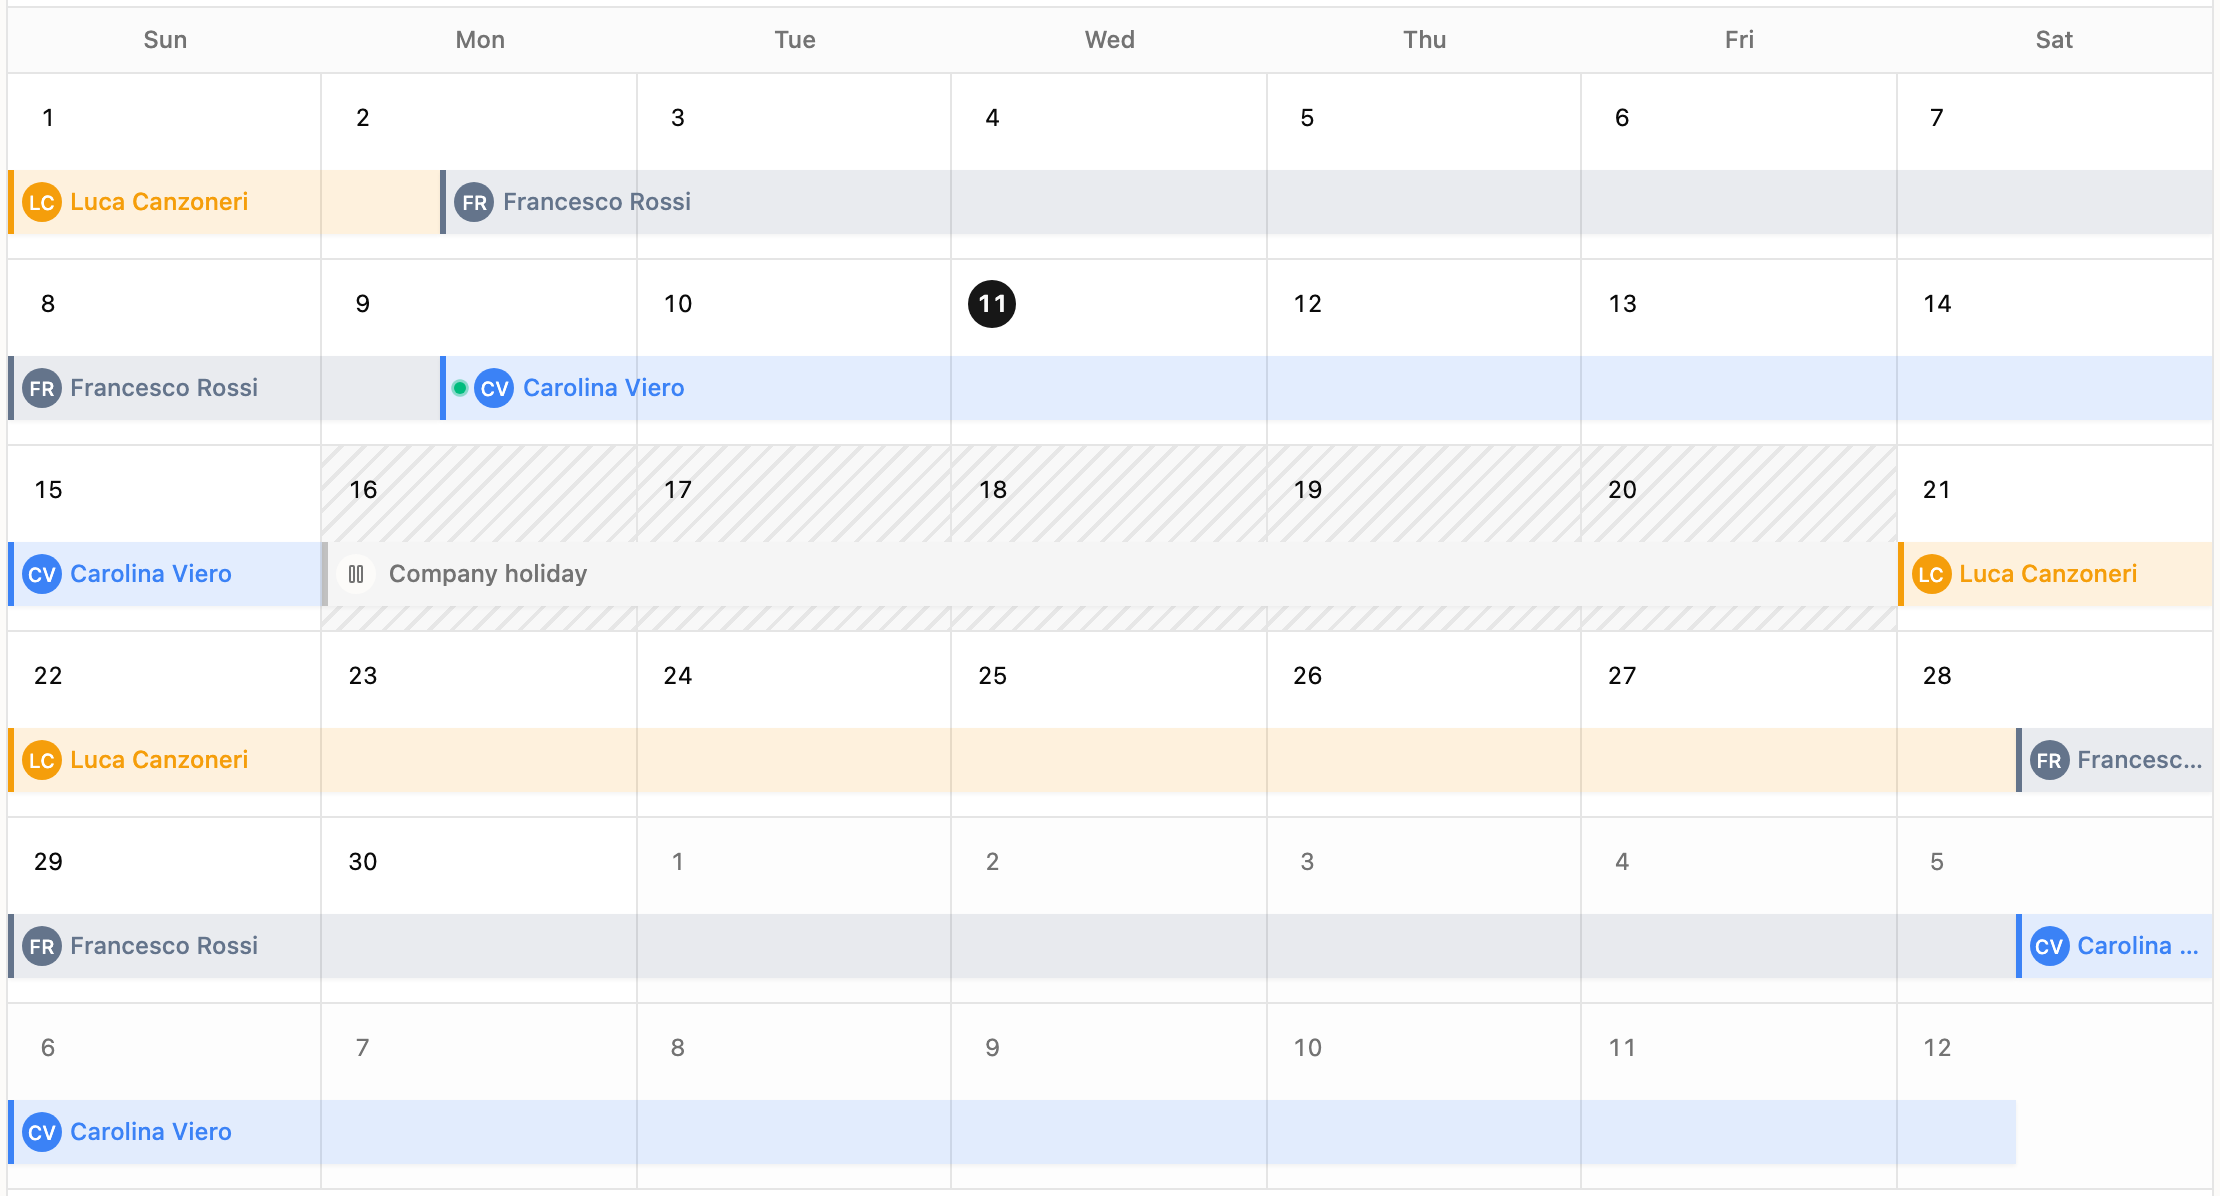
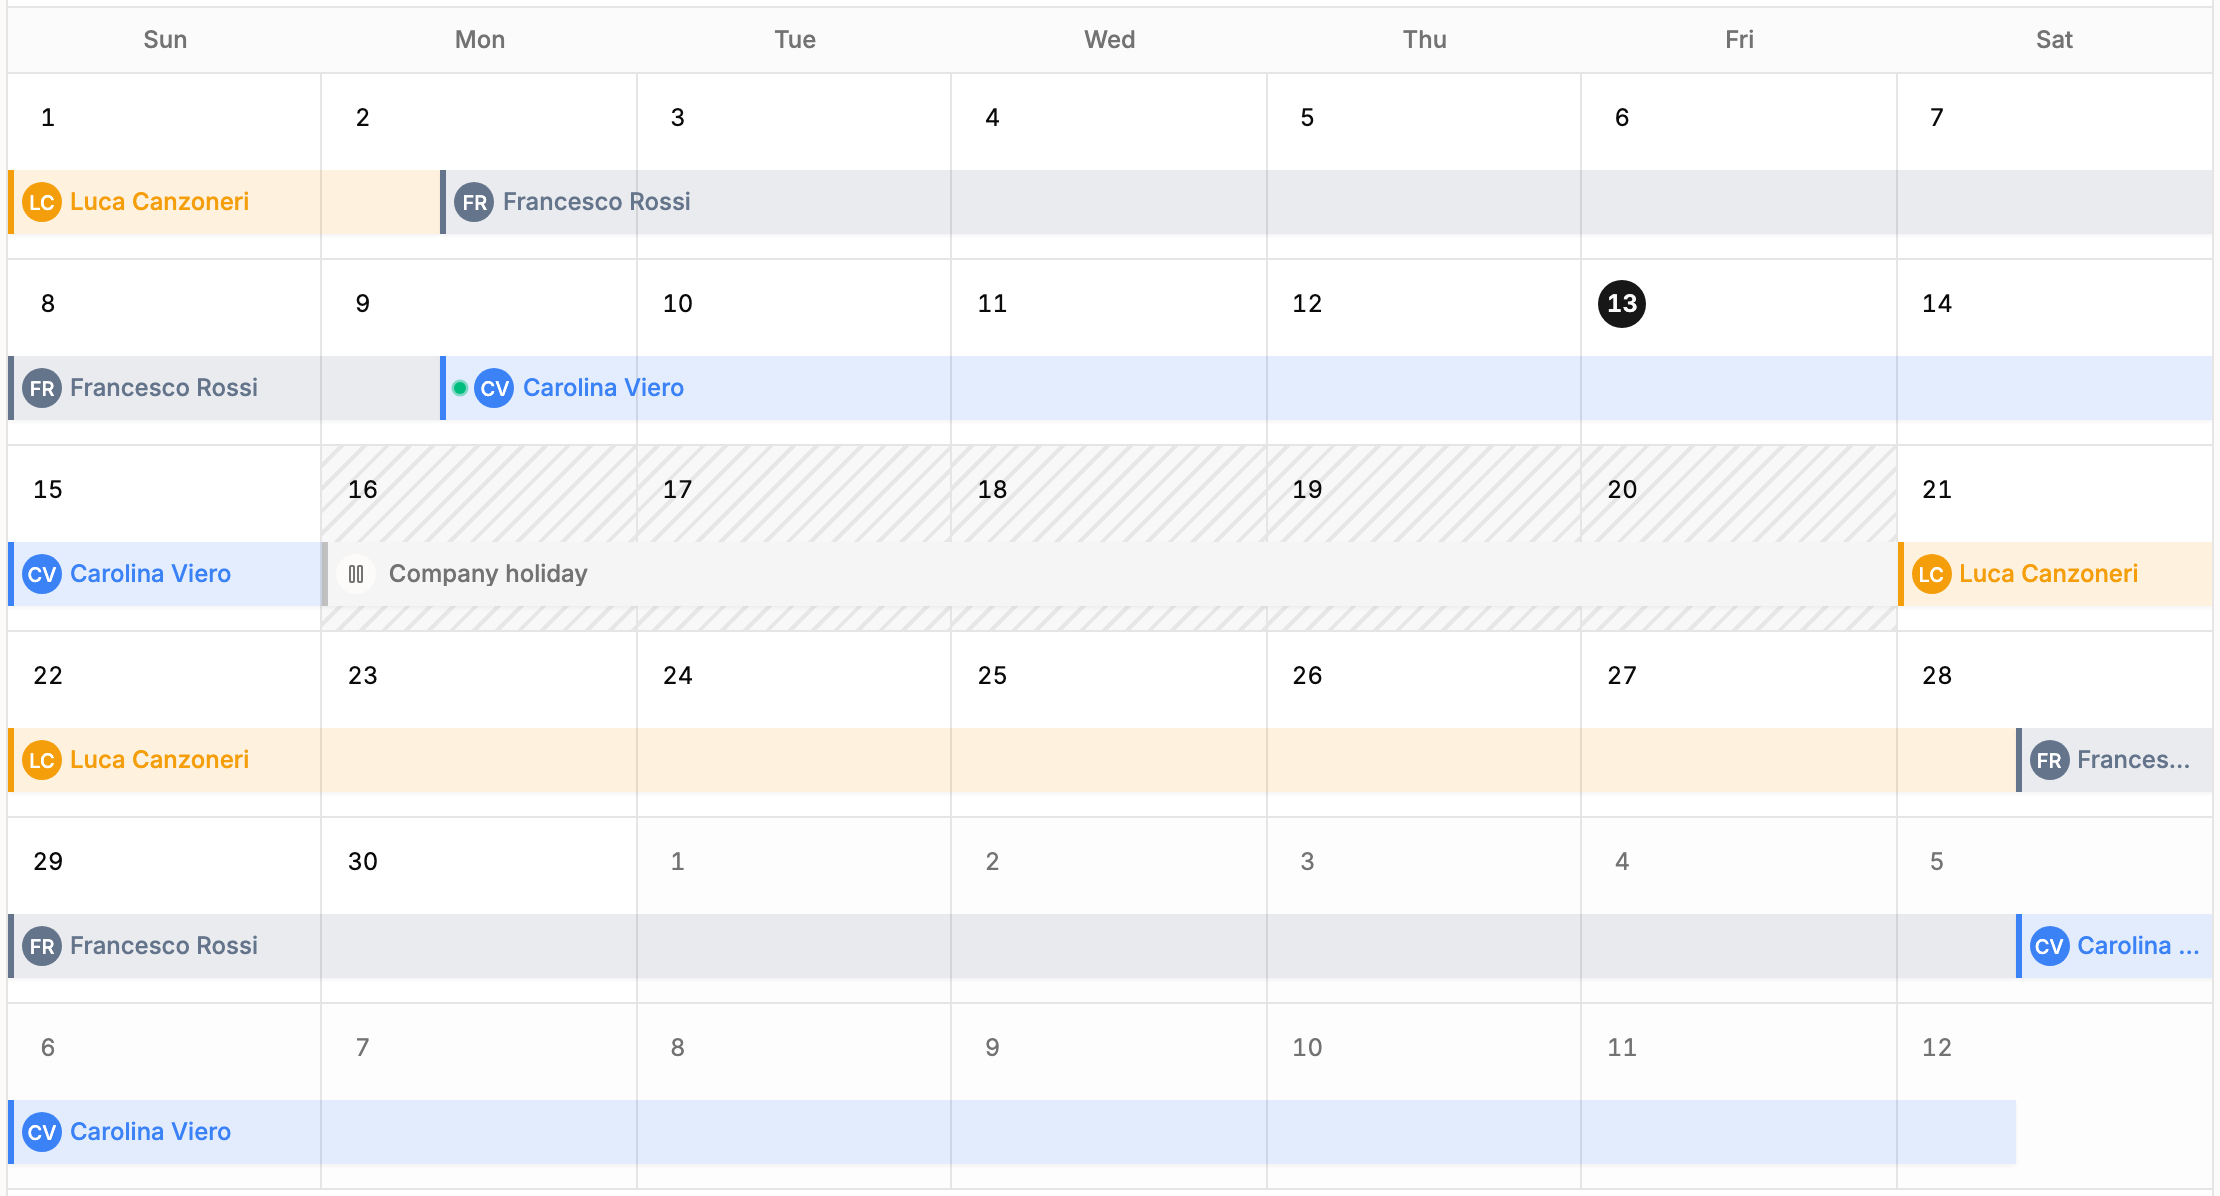
docs: pause the rotation from the button or P, and cancel or resume a break (ENGG-4777)
Matches dashboard #419:
- Pausing starts from Pause rotation or P. A drag on the calendar adds an
  override. The drag-menu section and its screenshot are removed.
- "Remove a break" is now "Cancel a break" (an upcoming break) and
  "Resume the rotation early" (a running one), with the new labels.

Matches api #1627: the whole-weeks rule also covers a daily layer whose
slots repeat every week and include a gap.

All four screenshots are retaken from the current dashboard with sample
data (the dialog opened with P, the calendar band, the details with
Cancel break, the form section), and two alt texts now match their image.

diff --git a/oncall-schedules/pause-the-rotation.md b/oncall-schedules/pause-the-rotation.md
@@ -17,7 +17,12 @@ A break covers whole days in the schedule's timezone: from midnight on the first
 
 Every layer pauses for exactly the days you choose. On a layer that rotates weekly, a break that is not a whole number of weeks moves the later handoffs to another weekday. For example, a one-day break on a Monday rotation moves every later handoff to Tuesday.
 
-A schedule with a weekly layer that has slots (set hours, for example Monday 08:00 to Friday 18:00) only accepts breaks that are a whole number of weeks. Otherwise the slots would stop lining up with the handoffs and leave hours with nobody on call. The dialog suggests the nearest whole-week end date.
+Some schedules only accept breaks that are a whole number of weeks:
+
+- A schedule with a weekly layer that has slots (set hours, for example Monday 08:00 to Friday 18:00). Otherwise the slots would stop lining up with the handoffs and leave hours with nobody on call.
+- A schedule with a daily layer whose slots repeat every week and include a gap, for example five people on weekdays and nobody at the weekend. Otherwise everyone would move to other weekdays and the gap would land on a weekday.
+
+The dialog suggests the nearest whole-week end date.
 
 ## Example
 
@@ -38,15 +43,13 @@ Francesco's shift starts on Monday 14 December. The team adds a break from 21 De
 
 Francesco works the week of 14 December. He had one week left when the break started, so he works it from 4 to 8 January. Carolina starts on 11 January instead of 28 December. Everyone after her also moves two weeks later.
 
-## Pause the rotation from the calendar
+## Pause the rotation
 
 1. Open your [on-call schedule](https://app.spike.sh/on-calls).
-2. Drag across the days you want to pause.
-3. Choose **Pause the rotation**, or press **P**. The dialog opens with the days you selected.
+2. Click **Pause rotation** at the top of the schedule, next to **Override**, or press **P**.
+3. Pick the days in the dialog.
 
-<figure><img src="../.gitbook/assets/oncall/pause-the-rotation/drag-menu.png" alt="Menu that opens after dragging across days on the on-call calendar, with Add override and Pause the rotation"><figcaption><p>Drag across days, then choose Pause the rotation.</p></figcaption></figure>
-
-You can also click **Pause rotation** at the top of the schedule, next to **Override**, or press **P**. This is the way to pause on a tablet, where you cannot drag. The dialog opens with no days selected.
+Dragging across days on the calendar adds an [override](override-an-on-call.md), not a break.
 
 ## Set up the break
 
@@ -54,9 +57,9 @@ The dialog has these fields:
 
 - **Days:** pick the first and last day of the break on the calendar in the dialog. Click one day for a one-day break, or click a second day to make a range. The line above the calendar shows the days you picked and how many there are. The break includes both days.
 - **Reason:** optional. Spike shows the reason on the calendar, for example "Holiday break".
-- **Apply to all N schedules:** off by default. Turn it on to add the same break to every schedule of your current team. Each schedule keeps its own copy of the break, so you can remove it from one schedule and keep it on the others.
+- **Apply to all N schedules:** off by default. Turn it on to add the same break to every schedule of your current team. Each schedule keeps its own copy of the break, so you can cancel it on one schedule and keep it on the others.
 
-A break can be at most 366 days long. The first day must be today or later. Two breaks on one schedule cannot overlap. Schedules with a weekly layer that has slots need a break of whole weeks: if your days are not whole weeks, Spike tells you when you save and offers the nearest whole-week end date. When you apply a break to all schedules, Spike skips any schedule that already has a break on those days or needs a break of whole weeks, and tells you which schedules it skipped.
+A break can be at most 366 days long. The first day must be today or later. Two breaks on one schedule cannot overlap. Schedules that need a break of whole weeks (see above): if your days are not whole weeks, Spike tells you when you save and offers the nearest whole-week end date. When you apply a break to all schedules, Spike skips any schedule that already has a break on those days or needs a break of whole weeks, and tells you which schedules it skipped.
 
 Click **Pause rotation** to save the break.
 
@@ -70,37 +73,37 @@ During a break, the on-call step of any escalation policy that uses this schedul
 
 A break shows as a hatched band across the paused days, with its reason as the label. During the break, the calendar shows no shifts from the schedule. Overrides still show.
 
-<figure><img src="../.gitbook/assets/oncall/pause-the-rotation/calendar-band.png" alt="Hatched break band labelled Holiday break across the paused days on the on-call calendar"><figcaption><p>A break on the on-call calendar.</p></figcaption></figure>
+<figure><img src="../.gitbook/assets/oncall/pause-the-rotation/calendar-band.png" alt="Hatched break band labelled Company holiday across the paused days on the on-call calendar"><figcaption><p>A break on the on-call calendar.</p></figcaption></figure>
 
 Click the band to see the details of the break: when it starts and ends, its length, who added it, and who resumes after it. If the break was applied to all schedules, the details also show how many other schedules have it.
 
-<figure><img src="../.gitbook/assets/oncall/pause-the-rotation/details-popover.png" alt="Break details with the dates, who resumes, Remove break and Remove from all schedules"><figcaption><p>Break details, where you can also remove the break.</p></figcaption></figure>
+<figure><img src="../.gitbook/assets/oncall/pause-the-rotation/details-popover.png" alt="Break details with the dates and Cancel break"><figcaption><p>Break details, where you can also cancel the break.</p></figcaption></figure>
 
 ## Add breaks when you create or edit a schedule
 
 When you create or edit a schedule, the **Breaks** section is below the layers. It lists the upcoming breaks of the schedule. Click **Add a break** to open the same dialog.
 
 - **New schedule:** Spike saves the breaks when you save the schedule.
-- **Existing schedule:** Spike saves each break as soon as you add or remove it.
+- **Existing schedule:** Spike saves each break as soon as you add or cancel it.
 
 Past breaks are not listed in the form. They stay on the calendar.
 
-<figure><img src="../.gitbook/assets/oncall/pause-the-rotation/form-section.png" alt="Breaks section in the schedule form, with two upcoming breaks and Add a break"><figcaption><p>The Breaks section in the schedule form.</p></figcaption></figure>
+<figure><img src="../.gitbook/assets/oncall/pause-the-rotation/form-section.png" alt="Breaks section in the schedule form, with an upcoming break and Add a break"><figcaption><p>The Breaks section in the schedule form.</p></figcaption></figure>
 
-## Remove a break
+## Cancel a break
 
 Click the break on the calendar, or click the trash icon next to it in the **Breaks** section of the schedule form. Then choose one of these:
 
-- **Remove break** (in the form, **Remove from this schedule**): removes a break that has not started yet, from this schedule only.
-- **Remove from all N schedules:** removes every copy of the break. This option shows only for a break that was applied to all schedules.
+- **Cancel break** (in the form, **Cancel on this schedule**): cancels a break that has not started yet, on this schedule only.
+- **Cancel on all N schedules:** cancels every copy of the break. This option shows only for a break that was applied to all schedules.
 
-Spike asks you to confirm before it removes a break.
+Spike asks you to confirm before it cancels a break.
 
-### End a running break early
+### Resume the rotation early
 
-When a break has started, the action is **End break now** (or **End on all N schedules**). The days of the break that already passed stay paused, so nobody gets those days on call after the fact. The rotation resumes right away. On a schedule that needs breaks of whole weeks, the break ends at the next whole week instead.
+When a break has started, the action is **Resume rotation** (or **Resume on all N schedules**). The break ends today. The days of the break that already passed stay paused, so nobody gets those days on call after the fact. On a schedule that needs breaks of whole weeks, the break ends at the next whole week instead.
 
-You cannot remove a break that has ended. The shifts it moved already happened.
+You cannot cancel a break that has ended. The shifts it moved already happened.
 
 {% hint style="success" %}
 On a weekly rotation, choose a break that is a whole number of weeks long, for example 21 December to 3 January. Then every handoff after the break stays on the same weekday.
@@ -122,7 +125,7 @@ During a break, the on-call indicator in the dashboard header, the `/oncall` com
 
 No. A break pauses the whole schedule, with every layer in it. To change one layer only, use an [override](override-an-on-call.md) or edit the [layer](introduction-to-layers-in-on-call-schedules.md).
 
-### Who can add or remove breaks?
+### Who can add, cancel or end breaks?
 
 Anyone who can edit the schedule.
 
